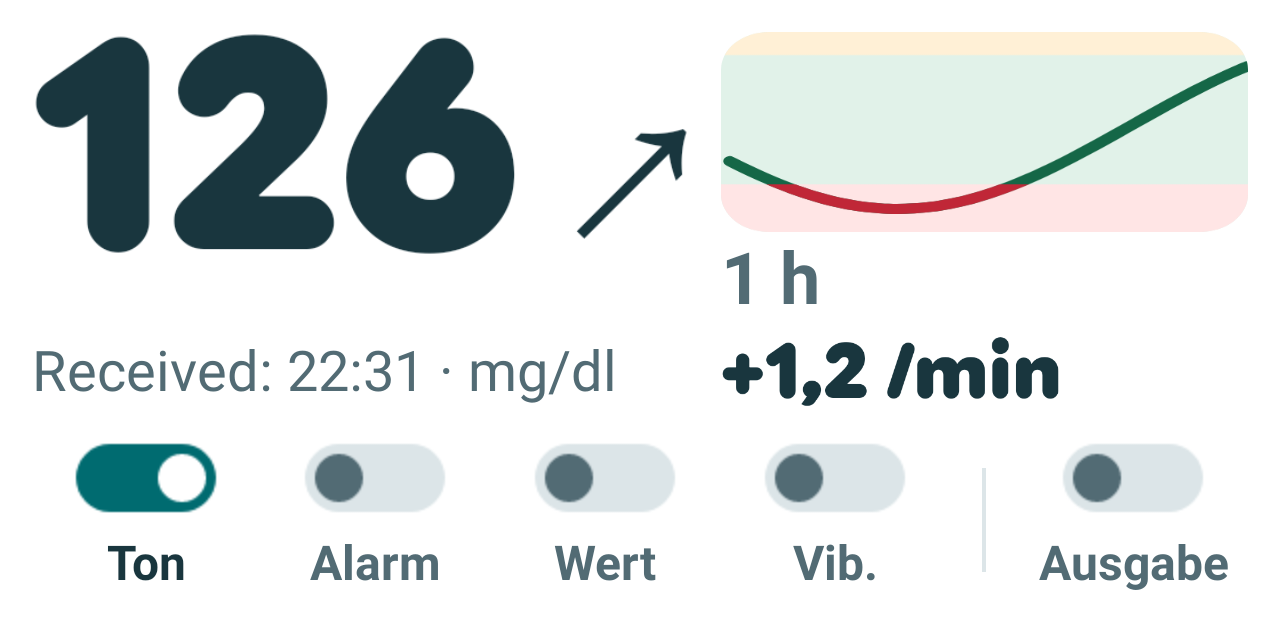
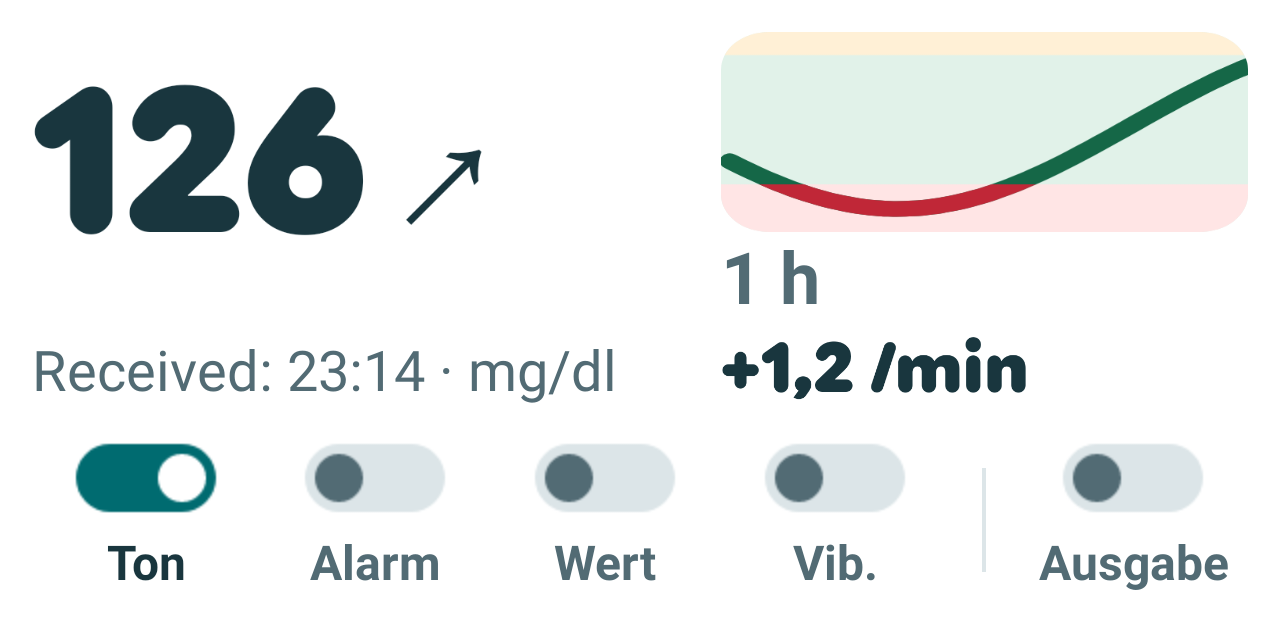
Update widget proportions and documentation for 0.20.7 beta

diff --git a/companionProbe/src/test/java/de/giesen/camaps/companion/prototype/androidcheck/HomeWidgetPlatformTest.java b/companionProbe/src/test/java/de/giesen/camaps/companion/prototype/androidcheck/HomeWidgetPlatformTest.java
@@ -202,12 +202,12 @@ public class HomeWidgetPlatformTest {
         Bitmap digits=Bitmap.createBitmap(number.getWidth(),number.getHeight(),Bitmap.Config.ARGB_8888);number.draw(new Canvas(digits));
         Rect ink=ink(digits);int firstInk=ink.left;
         // Measure visible glyphs rather than the former TextView's em size.
-        assertTrue("The visible reading must stay large",ink.height()>=48);
+        assertTrue("The visible reading must remain readable without dominating the widget",ink.height()>=30&&ink.height()<=46);
         assertTrue("The reading must begin at the leading edge instead of leaving a blank block",firstInk<18);
-        assertTrue("The visible reading and arrow must use the available width",ink.width()>number.getWidth()*.85f);
+        assertTrue("Leave breathing room after the reading and arrow",ink.width()>number.getWidth()*.5f&&ink.width()<number.getWidth()*.83f);
         View wide=layout(HomeWidget.view(c,widget,560,180,m),560,180);
         ImageView larger=wide.findViewById(R.id.widget_reading);Bitmap expanded=Bitmap.createBitmap(larger.getWidth(),larger.getHeight(),Bitmap.Config.ARGB_8888);larger.draw(new Canvas(expanded));
-        assertTrue("A wider host must give the main value more room",ink(expanded).height()>ink.height());
+        assertTrue("A wider host may enlarge the value only up to its height cap",ink(expanded).height()>=ink.height()&&ink(expanded).height()<=46);
         assertEquals(18,((TextView)normal.findViewById(R.id.widget_period)).getTextSize(),.1);
         save("widget-balanced-wide.png",HomeWidget.view(c,widget,560,180,m),560,180);
         c.getSharedPreferences(HomeWidget.PREFS,0).edit().putBoolean("controls_"+widget,false).commit();
@@ -223,7 +223,8 @@ public class HomeWidgetPlatformTest {
                 View host=layout(copy,width,160);float density=c.getResources().getDisplayMetrics().density;
                 ImageView number=host.findViewById(R.id.widget_reading);TextView period=host.findViewById(R.id.widget_period);
                 Bitmap visible=Bitmap.createBitmap(number.getWidth(),number.getHeight(),Bitmap.Config.ARGB_8888);number.draw(new Canvas(visible));
-                assertTrue("Dense displays must not shrink the visible value",ink(visible).height()/density>=48);
+                float visibleHeight=ink(visible).height()/density;
+                assertTrue("Dense displays retain a bounded readable size",visibleHeight>=30&&visibleHeight<=46);
                 Bitmap before=bitmap(layout(rv,width,160),R.id.widget_reading),after=bitmap(host,R.id.widget_reading);
                 assertTrue("The exact round font and arrow must survive RemoteViews parceling",before.sameAs(after));
                 assertEquals(18,period.getTextSize()/density,.1);
@@ -256,8 +257,8 @@ public class HomeWidgetPlatformTest {
             Bitmap pixels=Bitmap.createBitmap(chart.getWidth(),chart.getHeight(),Bitmap.Config.ARGB_8888);chart.draw(new Canvas(pixels));
             int thickness=0;for(int y=0;y<pixels.getHeight();y++)if(pixels.getPixel(pixels.getWidth()/2,y)==0xffd4f6e7)thickness++;
             float density=c.getResources().getDisplayMetrics().density;
-            assertTrue("A line must remain visible after fitting",thickness>=density);
-            assertTrue("A height mismatch must not turn the curve into a filled band",thickness<=4*density);
+            float relativeStroke=thickness/(float)chart.getHeight();
+            assertTrue("Use the middle weight between the previous two curves",relativeStroke>=.055f&&relativeStroke<=.095f);
             Bitmap source=((android.graphics.drawable.BitmapDrawable)chart.getDrawable()).getBitmap();
             assertEquals("Use enough source pixels for a dense screen",256,source.getHeight());
             save("widget-balanced-height-hint-"+hint+".png",rv,400,160);
@@ -279,7 +280,7 @@ public class HomeWidgetPlatformTest {
             String arrow=HomeWidget.arrow(trend);Bitmap with=HomeWidgetRenderer.numerals(c,value,arrow,Color.WHITE,false);
             Bitmap without=HomeWidgetRenderer.numerals(c,value,"",Color.WHITE,false);Rect r=ink(with);
             assertTrue(r.width()>0&&r.height()>0);assertTrue(r.left>0&&r.top>0&&r.right<with.getWidth()&&r.bottom<with.getHeight());
-            if(!arrow.isEmpty())assertTrue("Known arrow must add visible glyphs",with.getWidth()>without.getWidth());
+            if(!arrow.isEmpty())assertTrue("Known arrow must add visible glyphs",ink(with).width()>ink(without).width());
             assertTrue(with.getWidth()<=960&&with.getHeight()<=384);
         }
         for(boolean small:new boolean[]{true,false}){
@@ -294,6 +295,24 @@ public class HomeWidgetPlatformTest {
         String expected="Received: "+new java.text.SimpleDateFormat("HH:mm",Locale.getDefault()).format(new Date(s.received))+" · mg/dl";
         assertEquals(expected,stamp.getText().toString());assertEquals(AppAppearance.colors(c).error,stamp.getCurrentTextColor());
         assertTrue("Screen readers retain the full original timestamp",HomeWidget.description(m).contains(new java.text.SimpleDateFormat("dd.MM. HH:mm",Locale.getDefault()).format(new Date(s.received))));
+    }
+    @Test @Config(sdk=34,qualifiers="de-w411dp-h891dp-xxxhdpi") public void shorterValuesDoNotGrowAndTallHostsRespectTheHeightCap()throws Exception {
+        float density=c.getResources().getDisplayMetrics().density;WatchSnapshot base=demo(false);
+        for(int width:new int[]{320,400,560})for(int height:new int[]{160,260})for(WatchSnapshot.Trend trend:new WatchSnapshot.Trend[]{WatchSnapshot.Trend.FLAT,WatchSnapshot.Trend.DOWN_RIGHT}){
+            float previous=-1;
+            for(int value:new int[]{96,196}){
+                WatchSnapshot sample=new WatchSnapshot(base.generated,base.received,value,trend,false,true,base.rate,base.low,base.high,base.points);
+                RemoteViews rv=HomeWidget.view(c,widget,width,height,new HomeWidget.Model(sample,true,false,false,false,true,output()));
+                ImageView number=layout(rv,width,height).findViewById(R.id.widget_reading);
+                Bitmap visible=Bitmap.createBitmap(number.getWidth(),number.getHeight(),Bitmap.Config.ARGB_8888);number.draw(new Canvas(visible));
+                float glyphHeight=ink(visible).height()/density;
+                assertTrue("The launcher cannot allocate an oversized reading image",number.getHeight()/density<=56);
+                assertTrue("Both digit counts stay readable and below the visual cap",glyphHeight>=30&&glyphHeight<=46);
+                if(previous>=0)assertEquals("Two and three digits must have comparable height",previous,glyphHeight,2);
+                previous=glyphHeight;
+                if(width==400&&height==160&&trend==WatchSnapshot.Trend.DOWN_RIGHT)save("widget-balanced-"+(value==96?"two-digits":"three-digits")+".png",rv,width,height);
+            }
+        }
     }
     private Bitmap bitmap(View root,int id){return ((android.graphics.drawable.BitmapDrawable)((ImageView)root.findViewById(id)).getDrawable()).getBitmap();}
     private Rect ink(Bitmap b){Rect r=new Rect(b.getWidth(),b.getHeight(),0,0);for(int y=0;y<b.getHeight();y++)for(int x=0;x<b.getWidth();x++)if(Color.alpha(b.getPixel(x,y))>100){r.left=Math.min(r.left,x);r.top=Math.min(r.top,y);r.right=Math.max(r.right,x+1);r.bottom=Math.max(r.bottom,y+1);}return r;}

diff --git a/companionProbe/src/main/java/de/giesen/camaps/companion/prototype/HomeWidgetRenderer.java b/companionProbe/src/main/java/de/giesen/camaps/companion/prototype/HomeWidgetRenderer.java
@@ -8,6 +8,8 @@ import java.util.*;
 final class HomeWidgetRenderer {
     private final Paint p=new Paint(Paint.ANTI_ALIAS_FLAG);
     private static Typeface rounded;
+    // Midpoint between the last two device-tested weights.
+    private static final float CURVE_STROKE=(3.25f+64f*15f/141f)/2;
     /** Render only the numerals locally: launcher RemoteViews cannot load app fonts reliably.
      * Tight bounds and FIT_START preserve the typeface, adjacency and leading alignment
      * across process boundaries without a bitmap sized from unreliable host heights.
@@ -24,8 +26,20 @@ final class HomeWidgetRenderer {
         // ink height to the entire view would turn it into a thick bar.
         bounds.top=Math.min(bounds.top,zero.top);bounds.bottom=Math.max(bounds.bottom,zero.bottom);
         if(!arrow.isEmpty()){trend.getTextBounds(arrow,0,arrow.length(),b);bounds.union(arrowX+b.left,b.top,arrowX+b.right,b.bottom);}
-        float scale=Math.min(1,Math.min(956f/Math.max(1,bounds.width()),380f/Math.max(1,bounds.height())));
-        Bitmap bitmap=Bitmap.createBitmap(Math.max(1,(int)Math.ceil(bounds.width()*scale)+4),Math.max(1,(int)Math.ceil(bounds.height()*scale)+4),Bitmap.Config.ARGB_8888);
+        if(!small){
+            // A short value must not become larger just because it has fewer
+            // digits or a narrower arrow. Reserve one common three-digit box.
+            float referenceX=digits.measureText("888")+digits.measureText("\u2009"),referenceRight=referenceX;
+            for(String direction:new String[]{"⇈","↑","↗","→","↘","↓","⇊"}){
+                trend.getTextBounds(direction,0,direction.length(),b);referenceRight=Math.max(referenceRight,referenceX+b.right);
+            }
+            bounds.right=Math.max(bounds.right,referenceRight);
+        }
+        // Reserve trailing space rather than letting FIT_START enlarge the ink
+        // to fill the entire reading region. Leading alignment stays unchanged.
+        float occupancy=small?.9f:.8f;
+        float scale=Math.min(1,Math.min(956f*occupancy/Math.max(1,bounds.width()),380f*occupancy/Math.max(1,bounds.height())));
+        Bitmap bitmap=Bitmap.createBitmap(Math.max(1,(int)Math.ceil(bounds.width()*scale/occupancy)+4),Math.max(1,(int)Math.ceil(bounds.height()*scale/occupancy)+4),Bitmap.Config.ARGB_8888);
         bitmap.setDensity(Bitmap.DENSITY_NONE);bitmap.setHasMipMap(true);
         Canvas canvas=new Canvas(bitmap);canvas.translate(2,2);canvas.scale(scale,scale);canvas.translate(-bounds.left,-bounds.top);
         canvas.drawText(value,0,0,digits);if(!arrow.isEmpty())canvas.drawText(arrow,arrowX,0,trend);
@@ -65,10 +79,10 @@ final class HomeWidgetRenderer {
     private void segment(Canvas c,List<DiagnosticSeries.Sample> points,WatchSnapshot s,long from,long span,double lo,double hi,float left,float right,float top,float bottom,boolean dark,boolean fresh){
         if(points.isEmpty())return;Path path=new Path();DiagnosticSeries.Sample first=points.get(0);path.moveTo(x(first.time,from,span,left,right),y(first.value,lo,hi,top,bottom));
         for(double[] a:ChartCurve.controls(points))path.cubicTo(x(a[0],from,span,left,right),y(a[1],lo,hi,top,bottom),x(a[2],from,span,left,right),y(a[3],lo,hi,top,bottom),x(a[4],from,span,left,right),y(a[5],lo,hi,top,bottom));
-        p.setStyle(Paint.Style.STROKE);p.setStrokeWidth(3.25f);p.setStrokeCap(Paint.Cap.ROUND);p.setStrokeJoin(Paint.Join.ROUND);p.setColor(fresh?(dark?0xffd4f6e7:0xff156747):0xff8b9993);c.drawPath(path,p);
+        p.setStyle(Paint.Style.STROKE);p.setStrokeWidth(CURVE_STROKE);p.setStrokeCap(Paint.Cap.ROUND);p.setStrokeJoin(Paint.Join.ROUND);p.setColor(fresh?(dark?0xffd4f6e7:0xff156747):0xff8b9993);c.drawPath(path,p);
         if(fresh&&s.high!=null){c.save();c.clipRect(left,top,right,y(s.high,lo,hi,top,bottom));p.setColor(dark?0xffffd28c:0xff936000);c.drawPath(path,p);c.restore();}
         if(fresh&&s.low!=null){c.save();c.clipRect(left,y(s.low,lo,hi,top,bottom),right,bottom);p.setColor(dark?0xffff5c5c:0xffc02737);c.drawPath(path,p);c.restore();}
-        p.setStyle(Paint.Style.FILL);if(points.size()==1){p.setColor(!fresh?0xff8b9993:s.low!=null&&first.value<s.low?(dark?0xffff5c5c:0xffc02737):s.high!=null&&first.value>s.high?(dark?0xffffd28c:0xff936000):(dark?0xffd4f6e7:0xff156747));c.drawCircle(x(first.time,from,span,left,right),y(first.value,lo,hi,top,bottom),1.75f,p);}
+        p.setStyle(Paint.Style.FILL);if(points.size()==1){p.setColor(!fresh?0xff8b9993:s.low!=null&&first.value<s.low?(dark?0xffff5c5c:0xffc02737):s.high!=null&&first.value>s.high?(dark?0xffffd28c:0xff936000):(dark?0xffd4f6e7:0xff156747));c.drawCircle(x(first.time,from,span,left,right),y(first.value,lo,hi,top,bottom),CURVE_STROKE/2,p);}
     }
     private float x(double time,long from,long span,float left,float right){return (float)(left+(right-left)*(time-from)/span);}
     private float y(double value,double lo,double hi,float top,float bottom){return (float)(bottom-(bottom-top)*(value-lo)/(hi-lo));}

diff --git a/docs/PHONE_REFERENCE.de.md b/docs/PHONE_REFERENCE.de.md
@@ -17,7 +17,7 @@ Ab Telefonversion 0.20.0 enthält GVA ein größenanpassbares Widget. Ab 0.20.2 
 
 Die Kurve zeigt je nach verfügbarer Breite 30 Minuten, eine oder zwei Stunden. „30 min“, „1 h“ oder „2 h“ steht direkt darunter. GVA reserviert zuerst Platz für Wert und Pfeil und verkürzt bei weniger Breite den Kurvenzeitraum. Die Beschriftung bezeichnet das sichtbare Zeitfenster; fehlende Daten bleiben darin offen. Die Diagnosekurve im Dashboard zeigt weiterhin sechs Stunden.
 
-Halte eine freie Stelle auf dem Startbildschirm gedrückt und wähle Widgets → Glucose Voice Alarm → GVA · Glukose. Ab 0.20.3 beträgt die Mindesthöhe 120 dp. Ab 0.20.5 werden Wert/Pfeil und Delta als scharf aufgelöste, begrenzte Grafiken gezeichnet. So bleibt die mitgelieferte runde Schrift auch im eingeschränkten Launcher-Kontext erhalten. Zeit und Zeitraumangabe bleiben native Textelemente. Für Hauptwert und Delta enthält das Widget eine kräftige, runde Variante von Google Sans Flex unter SIL OFL 1.1. Sie wird mitgeliefert und benötigt keine bestimmte auf dem Telefon installierte Schrift. Die Uhr verwendet weiterhin Roboto Flex. Der Wert steht linksbündig, der Pfeil daneben. Die Kurve wird etwas kräftiger gezeichnet; ihre Zeichenhöhe bleibt beim Größenwechsel fest, damit eine ungenaue Höhenangabe des Launchers die Linie nicht stark verbreitert. Die Zeitraumangabe ist größer und die Kurve nutzt die verfügbare Höhe. Eine feste 4×2-Rastervorgabe entfällt. Die Rastergröße und benötigten Zellen bestimmt der Launcher anhand der Mindestmaße. Ein vorhandenes Widget kannst Du dort selbst flacher ziehen.
+Halte eine freie Stelle auf dem Startbildschirm gedrückt und wähle Widgets → Glucose Voice Alarm → GVA · Glukose. Ab 0.20.3 beträgt die Mindesthöhe 120 dp. Ab 0.20.5 werden Wert/Pfeil und Delta als scharf aufgelöste, begrenzte Grafiken gezeichnet. So bleibt die mitgelieferte runde Schrift auch im eingeschränkten Launcher-Kontext erhalten. Zeit und Zeitraumangabe bleiben native Textelemente. Für Hauptwert und Delta enthält das Widget eine kräftige, runde Variante von Google Sans Flex unter SIL OFL 1.1. Sie wird mitgeliefert und benötigt keine bestimmte auf dem Telefon installierte Schrift. Die Uhr verwendet weiterhin Roboto Flex. Der Wert steht linksbündig, der Pfeil direkt daneben. Eine gemeinsame Größenbasis und eine begrenzte Bildhöhe halten zwei- und dreistellige Werte in vergleichbarer Schriftgröße. Die Kurve hat eine mittlere Linienstärke und eine feste Zeichenhöhe; ungenaue Höhenangaben des Launchers verändern dadurch nicht ihre relative Stärke. Die Zeitraumangabe ist größer und die Kurve nutzt die verfügbare Höhe. Eine feste 4×2-Rastervorgabe entfällt. Die Rastergröße und benötigten Zellen bestimmt der Launcher anhand der Mindestmaße. Ein vorhandenes Widget kannst Du dort selbst flacher ziehen.
 
 Die Schalterzeile bleibt auch bei niedriger Höhe sichtbar: Ton, Alarm-Sprache („Alarm“), Wertansagen („Wert“), Vibration und der Hauptschalter „Ausgabe“. Die Toggles sind größer; bei ausreichender Breite trennt etwas Abstand mit einer dezenten Linie die Ausgabe von den vier Kanälen. Die Schalterstellung zeigt an/aus; bei laufender globaler Pause heißt der Hauptschalter „Pause“. Antippen der übrigen Fläche öffnet das Dashboard. Profile und weitere Einstellungen sind in der App erreichbar. Über die Widget-Bearbeitung des Launchers lässt sich die Schalterzeile weiterhin pro Widget ausblenden, sofern der Launcher diese Funktion anbietet.
 
@@ -56,7 +56,7 @@ Wenn CamAPS bereits die Glukosedaten empfängt und die Therapie steuert, kann si
 
 ## Umfang und Grenzen
 
-Vorbereitet ist die Telefonversion 0.20.5 Beta. Entwicklung und Telefonprüfungen konzentrierten sich auf Pixel 7 Pro mit Android 17 und CamAPS FX 1.4(194).111. Andere Geräte, Android-Varianten und CamAPS-Versionen müssen gesondert geprüft werden. Die App verarbeitet unterstützte CamAPS-Benachrichtigungen in **mg/dl oder mmol/l**. Andere CGM-Quellen, direkte Sensoranbindung und Pumpensteuerung sind nicht enthalten.
+Vorbereitet ist die Telefonversion 0.20.7 Beta. Entwicklung und Telefonprüfungen konzentrierten sich auf Pixel 7 Pro mit Android 17 und CamAPS FX 1.4(194).111. Andere Geräte, Android-Varianten und CamAPS-Versionen müssen gesondert geprüft werden. Die App verarbeitet unterstützte CamAPS-Benachrichtigungen in **mg/dl oder mmol/l**. Andere CGM-Quellen, direkte Sensoranbindung und Pumpensteuerung sind nicht enthalten.
 
 Optional sind [GVA Watch und das Zifferblatt GVA Dots](../companionWear/README.de.md) teilweise auf der Galaxy Watch5 Pro mit Wear OS 6 / One UI 8 Watch erprobt. Sie zeigen Werte und einen kurzen Verlauf; angenommene Telefonalarme lassen sich zusätzlich weiterleiten. Die Telefonübertragung ist zunächst aus. Aktualisierung der Komplikationen, Alarmzustellung und Akkuverbrauch benötigen weitere Geräteprüfungen.
 
@@ -66,7 +66,7 @@ Die angezeigte Zeit ist Empfangs-/Verarbeitungszeit, kein bestätigter Sensor-Me
 
 ## Anzeige auf der Uhr
 
-GVA Watch 0.19.0 Beta und das codefreie Zifferblatt GVA Dots 0.1.5 Beta passen zur vorbereiteten Telefonversion 0.20.5 Beta. Die runde Anzeige verwendet Roboto Flex, eine Kurve über eine oder zwei Stunden und eine reduzierte gedimmte Ansicht. Menüs nutzen die offiziellen Wear-Material-3-Komponenten. Die Uhren-App bietet zusätzlich eine Kachel im selben Aufbau ohne Uhrzeit-Punkte. Neben Sammelfeld und Alter lassen sich Wert, CamAPS-Trend, Delta pro Minute und Kurve einzeln in passenden fremden Zifferblättern auswählen. Die Uhr zeigt Daten und kann angenommene Telefonalarme mit Vibration weitergeben. Eine eigene Glukosealarmberechnung ist nicht enthalten. [Einrichtung und Grenzen](../companionWear/README.de.md). Die Alltagserprobung läuft; neue Einzelkomplikationen und Kachel müssen noch am Gerät geprüft werden.
+GVA Watch 0.19.0 Beta und das codefreie Zifferblatt GVA Dots 0.1.5 Beta passen zur vorbereiteten Telefonversion 0.20.7 Beta. Die runde Anzeige verwendet Roboto Flex, eine Kurve über eine oder zwei Stunden und eine reduzierte gedimmte Ansicht. Menüs nutzen die offiziellen Wear-Material-3-Komponenten. Die Uhren-App bietet zusätzlich eine Kachel im selben Aufbau ohne Uhrzeit-Punkte. Neben Sammelfeld und Alter lassen sich Wert, CamAPS-Trend, Delta pro Minute und Kurve einzeln in passenden fremden Zifferblättern auswählen. Die Uhr zeigt Daten und kann angenommene Telefonalarme mit Vibration weitergeben. Eine eigene Glukosealarmberechnung ist nicht enthalten. [Einrichtung und Grenzen](../companionWear/README.de.md). Die Alltagserprobung läuft; neue Einzelkomplikationen und Kachel müssen noch am Gerät geprüft werden.
 
 Die optionale Weiterleitung eigener Alarme und Datenlückenwarnungen an GVA Watch ist ab 0.18.0 getrennt von den Anzeigedaten einschaltbar. Auf der Uhr erscheinen eigene Benachrichtigungen mit Vibration. Beide Apps benötigen eine Freigabe; unter Darstellung → Uhr gibt es einen ausdrücklich bezeichneten Test ohne Messwerte. Die Weiterleitung folgt angenommenen Telefonalarm-Ausgaben und arbeitet ohne Offline-Nachholung. Normale Werte erzeugen keine Uhrenbenachrichtigung. [Einrichtung und Grenzen](../companionWear/README.de.md#einrichtung-und-alarme).
 

diff --git a/docs/PHONE_REFERENCE.md b/docs/PHONE_REFERENCE.md
@@ -17,7 +17,7 @@ Phone version 0.20.0 introduced a resizable GVA widget. From 0.20.2, the large r
 
 Depending on the available width, the chart shows 30 minutes, one or two hours, labeled directly below as “30 min”, “1 h” or “2 h”. GVA reserves space for the reading and arrow first and shortens the chart window as width decreases. The label describes the visible time window; missing data stays empty within it. The dashboard diagnostic chart still covers six hours.
 
-Long-press an empty area of the home screen and select Widgets → Glucose Voice Alarm → GVA · Glucose. From 0.20.3, the minimum height is 120 dp. From 0.20.5, the reading/arrow and delta are drawn as sharp, bounded images so the bundled round font survives the launcher’s restricted context. Time and history-window labels remain native text views. The widget bundles a heavy, rounded instance of Google Sans Flex for the reading and delta under SIL OFL 1.1, without relying on a particular font being installed on the phone. The watch continues to use Roboto Flex. The reading is left-aligned, with the arrow beside it. The chart has a slightly thicker line and uses a fixed drawing height so that an inaccurate launcher height hint cannot greatly widen the line. The history-window label is larger, and the chart uses the available height. There is no fixed 4×2 grid request. The launcher determines the grid size and required cells from the minimum dimensions. You can make an existing widget shorter there.
+Long-press an empty area of the home screen and select Widgets → Glucose Voice Alarm → GVA · Glucose. From 0.20.3, the minimum height is 120 dp. From 0.20.5, the reading/arrow and delta are drawn as sharp, bounded images so the bundled round font survives the launcher’s restricted context. Time and history-window labels remain native text views. The widget bundles a heavy, rounded instance of Google Sans Flex for the reading and delta under SIL OFL 1.1, without relying on a particular font being installed on the phone. The watch continues to use Roboto Flex. The reading is left-aligned, with the arrow beside it. A shared size reference and a capped image height keep two- and three-digit readings at comparable sizes. The chart uses a medium-weight line and a fixed drawing height, so inaccurate launcher height hints do not change its relative weight. The history-window label is larger, and the chart uses the available height. There is no fixed 4×2 grid request. The launcher determines the grid size and required cells from the minimum dimensions. You can make an existing widget shorter there.
 
 The toggle row remains visible at low heights: sound, alarm speech (“Alarm”), reading speech (“Reading”), vibration and the output master switch. Toggles are larger, with extra space and a subtle divider separating output from the four channels when width permits. Switch positions show on/off; during a running global pause, the master label reads “Paused”. Tapping elsewhere opens the dashboard. Profiles and other settings remain available in the app. Launchers that support widget editing can still hide the toggle row for each widget.
 
@@ -56,7 +56,7 @@ With CamAPS already collecting glucose data and controlling therapy, a companion
 
 ## Scope and limitations
 
-The prepared phone version is 0.20.5 Beta. Development and phone device checks have focused on a Pixel 7 Pro with Android 17 and CamAPS FX 1.4(194).111. Other devices, Android variants and CamAPS versions need separate verification. The app targets supported CamAPS notifications in **mg/dl or mmol/l**. It does not offer arbitrary CGM inputs, direct sensor communication or pump control.
+The prepared phone version is 0.20.7 Beta. Development and phone device checks have focused on a Pixel 7 Pro with Android 17 and CamAPS FX 1.4(194).111. Other devices, Android variants and CamAPS versions need separate verification. The app targets supported CamAPS notifications in **mg/dl or mmol/l**. It does not offer arbitrary CGM inputs, direct sensor communication or pump control.
 
 Optional [GVA Watch and the GVA Dots face](../companionWear/README.en.md) have been tested in part on a Galaxy Watch5 Pro running Wear OS 6 / One UI 8 Watch. They show readings and a short chart, with optional forwarding of accepted phone alerts. Phone-to-watch transfer starts off. Complication timing, alarm delivery and battery use need further device testing.
 
@@ -66,7 +66,7 @@ The time shown is receipt/processing time, not a verified sensor measurement tim
 
 ## Watch display
 
-GVA Watch 0.19.0 Beta and the code-free GVA Dots 0.1.5 Beta face work with the prepared phone version 0.20.5 Beta. The round display uses Roboto Flex, a one- or two-hour curve and a reduced ambient view. Menus use official Wear Material 3 components. The watch app also supplies a tile with the same data layout, without time dots. Alongside the composite display and age source, separate reading, CamAPS trend, delta per minute and chart sources can be selected in compatible third-party faces. The watch displays data and can relay accepted phone alarms with vibration. It does not calculate glucose alarms independently. See [watch setup and limits](../companionWear/README.en.md). Everyday device testing continues; the new standalone complications and tile still need device acceptance.
+GVA Watch 0.19.0 Beta and the code-free GVA Dots 0.1.5 Beta face work with the prepared phone version 0.20.7 Beta. The round display uses Roboto Flex, a one- or two-hour curve and a reduced ambient view. Menus use official Wear Material 3 components. The watch app also supplies a tile with the same data layout, without time dots. Alongside the composite display and age source, separate reading, CamAPS trend, delta per minute and chart sources can be selected in compatible third-party faces. The watch displays data and can relay accepted phone alarms with vibration. It does not calculate glucose alarms independently. See [watch setup and limits](../companionWear/README.en.md). Everyday device testing continues; the new standalone complications and tile still need device acceptance.
 
 From version 0.18.0, forwarding GVA alarms and data-gap warnings to GVA Watch can be enabled separately from display transfer. The watch creates its own notifications with vibration. Both apps require opt-in; Appearance → Watch includes a labeled test without readings. Forwarding follows accepted phone alarm outputs, without offline replay. Routine readings do not create watch notifications. [Setup and limits](../companionWear/README.en.md#watch-alerts).
 

diff --git a/docs/STATUS.md b/docs/STATUS.md
@@ -6,7 +6,7 @@
 
 | Component | Version | Source minimum / special requirement |
 |---|---|---|
-| Phone | 0.20.5 Beta | Android API 26 minimum declaration; native large metric display requires Android 17/API 37 |
+| Phone | 0.20.7 Beta | Android API 26 minimum declaration; native large metric display requires Android 17/API 37 |
 | GVA Watch, including tile and six complication sources | 0.19.0 Beta | API 30 minimum declaration; some dynamic-age behavior requires newer APIs |
 | GVA Dots | 0.1.5 Beta | Wear OS 4+, Watch Face Format v1 |
 
@@ -14,9 +14,9 @@ The phone/watch application ID and signing key must match for Google Play servic
 
 ## What has been checked
 
-The phone suite contains 650 synthetic checks; the watch suite contains 50, including four tile checks. Native renderings cover phone themes/settings, the widget, watch data views, the tile and complication graphics. The source review checks imported xDrip rule hashes, private-file exclusions, local links, dependency/font notices, package identity and independent debug signing. Tests do not establish clinical safety or reliable alarm delivery. On 28 October 2026, the exported repository was independently rebuilt with all 650 phone checks and 50 watch checks passing (700 total). All three APKs compiled using a matching ordinary debug identity, without the private developer key. Those APKs were used only for validation and are not distributed. The installed apps were not changed during this documentation/source preparation.
+The phone suite contains 651 synthetic checks; the watch suite contains 50, including four tile checks. Native renderings cover phone themes/settings, the widget, watch data views, the tile and complication graphics. The source review checks imported xDrip rule hashes, private-file exclusions, local links, dependency/font notices, package identity and independent debug signing. Tests do not establish clinical safety or reliable alarm delivery. On 28 October 2026, the exported repository was independently rebuilt with all 651 phone checks and 50 watch checks passing (701 total). All three APKs compiled using a matching ordinary debug identity, without the private developer key. Those APKs were used only for validation and are not distributed. The installed apps were not changed during this documentation/source preparation.
 
-Device work has focused on Pixel 7 Pro, Android 17, CamAPS FX 1.4(194).111, and Galaxy Watch5 Pro, Wear OS 6/One UI 8 Watch. The user observed value/trend speech and phone live-display behavior. The watch-face appearance, age field and worn ambient display were checked. Watch active-mode updates were observed approximately once per minute. Phone widget 0.20.4 was left in place after layout revisions. Version 0.20.5 changes the round-font transfer, line weight and receipt caption; its Pixel launcher appearance still needs device acceptance. These observations are not a compatibility or reliability guarantee.
+Device work has focused on Pixel 7 Pro, Android 17, CamAPS FX 1.4(194).111, and Galaxy Watch5 Pro, Wear OS 6/One UI 8 Watch. The user observed value/trend speech and phone live-display behavior. The watch-face appearance, age field and worn ambient display were checked. Watch active-mode updates were observed approximately once per minute. The user accepted the phone widget’s appearance on the Pixel launcher in version 0.20.7, including its rounded font, bounded reading size and revised curve weight. These observations are not a compatibility or reliability guarantee.
 
 ## Open before broader use
 
@@ -25,7 +25,7 @@ Device work has focused on Pixel 7 Pro, Android 17, CamAPS FX 1.4(194).111, and 
 - Natural data gaps, process restarts, disconnection/reconnection, stale display transitions and source-clock differences on real devices.
 - Perceptibility and delivery of every enabled alarm route, including watch vibration, Do Not Disturb and background restrictions. The watch has no independent alarm fallback.
 - Complication/tile cadence and battery cost in everyday active and ambient use. Synthetic timing tests cannot establish these.
-- A public-source review of the experimental description, retained upstream GPL notices and separately licensed dependencies. No certification or endorsement is claimed.
+- Continued review of the experimental description and component notices as the project changes. The current source review retains upstream GPL notices and separately licensed dependencies; no certification or endorsement is claimed.
 
 ## Privacy and distribution
 

diff --git a/docs/BUILDING.de.md b/docs/BUILDING.de.md
@@ -66,7 +66,7 @@ python tools/check_upstream_rules.py
 
 Wenn sqlite4java unter Windows mit langen WAL-Pfaden scheitert, wähle einen kurzen beschreibbaren Testordner. `probeTestTmp` legt ihn fest; der Standard ist `../t` relativ zum Repository. Gradle und Robolectric laden beim ersten Test Abhängigkeiten herunter, was viel Speicher benötigen kann. XML-/HTML-Berichte und synthetische native UI-Bilder bleiben im ignorierten `build/` des Moduls.
 
-`-PprobeFastCheck` führt nur den reinen Java-Teil aus und ersetzt nicht die vollständige Prüfung. Der Telefonstand hat 650 synthetische Prüfungen, unter anderem für Speicherformate, Profile, deutsche/englische Oberfläche und Sprache, Einheiten, Erststart-Bestätigungen und das Uhren-Anzeigeformat. Native Darstellungen decken beide Sprachen und Themen sowie große Schrift ab. Das Uhrenmodul ergänzt 50 Prüfungen, darunter die getrennten Bestätigungen und Menüaktionen, sowie synthetische Anzeige- und Menüansichten. Das belegt keine Zuverlässigkeit, Hörbarkeit oder klinische Sicherheit am echten Gerät.
+`-PprobeFastCheck` führt nur den reinen Java-Teil aus und ersetzt nicht die vollständige Prüfung. Der Telefonstand hat 651 synthetische Prüfungen, unter anderem für Speicherformate, Profile, deutsche/englische Oberfläche und Sprache, Einheiten, Erststart-Bestätigungen und das Uhren-Anzeigeformat. Native Darstellungen decken beide Sprachen und Themen sowie große Schrift ab. Das Uhrenmodul ergänzt 50 Prüfungen, darunter die getrennten Bestätigungen und Menüaktionen, sowie synthetische Anzeige- und Menüansichten. Das belegt keine Zuverlässigkeit, Hörbarkeit oder klinische Sicherheit am echten Gerät.
 
 Uhren-App und codefreies Zifferblatt haben unter `watch-build/` einen getrennten Build mit JDK 21 und Android SDK Platform 35. Gepinnt sind Gradle 8.9, AGP 8.7.2 und Kotlin 2.1.21 für Wear Compose Material 3. Die Telefonwerkzeuge oben bleiben unverändert. In einer für das Uhren-JDK und SDK eingerichteten Shell:
 

diff --git a/docs/BUILDING.md b/docs/BUILDING.md
@@ -66,7 +66,7 @@ python tools/check_upstream_rules.py
 
 Use a short writable test-temp path on Windows if sqlite4java has trouble with long WAL paths. The optional `probeTestTmp` property selects that directory. By default the test directory is `../t` relative to the repository. Gradle and Robolectric download dependencies on the first test run; this can be large. Test XML/HTML reports and native synthetic UI previews remain under the ignored module `build/` directory.
 
-`-PprobeFastCheck` runs only the pure Java subset. It is useful during development and does not replace the full suite. The phone baseline has 650 complete synthetic checks, including storage schemas, profiles, German/English UI and speech, unit conversion, first-start gates and the watch display protocol. Native synthetic renders cover both languages and themes, including large text. The watch module has 50 checks in total, including separate consent confirmations and menu actions, plus synthetic display and menu renders. These checks do not establish real-device reliability, audibility or clinical safety.
+`-PprobeFastCheck` runs only the pure Java subset. It is useful during development and does not replace the full suite. The phone baseline has 651 complete synthetic checks, including storage schemas, profiles, German/English UI and speech, unit conversion, first-start gates and the watch display protocol. Native synthetic renders cover both languages and themes, including large text. The watch module has 50 checks in total, including separate consent confirmations and menu actions, plus synthetic display and menu renders. These checks do not establish real-device reliability, audibility or clinical safety.
 
 The watch app and code-free face use the separate `watch-build/` project with JDK 21 and Android SDK Platform 35. Its pinned Gradle 8.9 / AGP 8.7.2 / Kotlin 2.1.21 build supports Wear Compose Material 3. The phone toolchain above stays unchanged. In a shell configured for the watch JDK and SDK:
 

diff --git a/companionProbe/README.de.md b/companionProbe/README.de.md
@@ -2,7 +2,7 @@
 
 [Projektübersicht](../README.de.md) · [English](README.md) · [GVA Watch](../companionWear/README.de.md) · [GVA Dots](../companionWatchFace/README.de.md)
 
-Die Telefon-App empfängt unterstützte CamAPS-Benachrichtigungen, prüft ihre eingestellten Alarme und versorgt die anderen GVA-Anzeigen. Version **0.20.5 Beta**. Sie funktioniert ohne die beiden Uhrenkomponenten.
+Die Telefon-App empfängt unterstützte CamAPS-Benachrichtigungen, prüft ihre eingestellten Alarme und versorgt die anderen GVA-Anzeigen. Version **0.20.7 Beta**. Sie funktioniert ohne die beiden Uhrenkomponenten.
 
 **Experimentelles Forschungswerkzeug; nicht für medizinische Verwendung oder Therapieentscheidungen.** Lies [SAFETY.de.md](../SAFETY.de.md). CamAPS steuert weiterhin Sensor und Pumpe.
 
@@ -18,7 +18,7 @@ Synthetische Beispiele. Dashboard und Einstellungen sind native App-Renderings; 
 
 </details>
 
-Das Widget bietet optional eine Schalterzeile für Ton, Alarm-Sprache, Wertansagen, Vibration und Ausgabe. Je nach Breite zeigt die beschriftete Kurve 30 Minuten, eine oder zwei Stunden. Wert/Pfeil und Delta verwenden die mitgelieferte runde Schrift auch im Launcher. Die Kurve ist etwas kräftiger; „Received: HH:mm“ zeigt die ursprüngliche Empfangsuhrzeit ohne Datum. Die übrige Fläche öffnet die App.
+Das Widget bietet optional eine Schalterzeile für Ton, Alarm-Sprache, Wertansagen, Vibration und Ausgabe. Je nach Breite zeigt die beschriftete Kurve 30 Minuten, eine oder zwei Stunden. Wert/Pfeil und Delta verwenden die mitgelieferte runde Schrift auch im Launcher. Zwei- und dreistellige Werte haben eine vergleichbare Schriftgröße mit fester Höhenbegrenzung. Die Kurve hat eine mittlere Linienstärke; „Received: HH:mm“ zeigt die ursprüngliche Empfangsuhrzeit ohne Datum. Die übrige Fläche öffnet die App.
 
 ## Ausgabe und Einstellungen
 

diff --git a/companionProbe/README.md b/companionProbe/README.md
@@ -2,7 +2,7 @@
 
 [Project overview](../README.md) · [Deutsch](README.de.md) · [GVA Watch](../companionWear/README.md) · [GVA Dots](../companionWatchFace/README.md)
 
-The phone app receives supported CamAPS notifications, evaluates its configured alarms and supplies all other GVA displays. Version **0.20.5 Beta**. The phone works without either watch component.
+The phone app receives supported CamAPS notifications, evaluates its configured alarms and supplies all other GVA displays. Version **0.20.7 Beta**. The phone works without either watch component.
 
 **Experimental research tool; not for medical use or treatment decisions.** Read [SAFETY.md](../SAFETY.md). CamAPS continues to control the sensor and pump.
 
@@ -18,7 +18,7 @@ Synthetic examples. Dashboard and setting images are native app renderings; the 
 
 </details>
 
-The widget has an optional single row of sound, alarm speech, reading speech, vibration and output toggles. Its chart switches between labeled 30-minute, one-hour and two-hour windows as width changes. The reading/arrow and delta use the bundled round font in the launcher. The curve has a slightly thicker line; “Received: HH:mm” shows the original receipt time without a date. The entire remaining surface opens the app.
+The widget has an optional single row of sound, alarm speech, reading speech, vibration and output toggles. Its chart switches between labeled 30-minute, one-hour and two-hour windows as width changes. The reading/arrow and delta use the bundled round font in the launcher. Two- and three-digit readings have comparable sizes and a fixed height limit. The curve uses a medium-weight line; "Received: HH:mm" shows the original receipt time without a date. The entire remaining surface opens the app.
 
 ## Output and settings
 

diff --git a/README.de.md b/README.de.md
@@ -10,7 +10,7 @@ Glucose Voice Alarm (GVA) liest Glukosewerte und Trendpfeile aus **CamAPS-Benach
 
 | Komponente | Aktueller Quellstand | Aufgabe |
 |---|---|---|
-| [Glucose Voice Alarm — Telefon](companionProbe/README.de.md) | 0.20.5 Beta | CamAPS-Empfang, konfigurierbare Alarme und Sprache, Dashboard, AOD/Sperrbildschirm und Widget |
+| [Glucose Voice Alarm — Telefon](companionProbe/README.de.md) | 0.20.7 Beta | CamAPS-Empfang, konfigurierbare Alarme und Sprache, Dashboard, AOD/Sperrbildschirm und Widget |
 | [GVA Watch](companionWear/README.de.md) | 0.19.0 Beta | Uhrenanzeige, Kachel, sechs Komplikationsquellen und optionale Telefonalarme mit Uhrenvibration |
 | [GVA Dots](companionWatchFace/README.de.md) | 0.1.5 Beta | Rundes Zifferblatt mit Uhrzeitpunkten, Wert/Pfeil, kurzem Verlauf, Alter und Delta |
 

diff --git a/README.md b/README.md
@@ -10,7 +10,7 @@ Glucose Voice Alarm (GVA) reads glucose values and trend arrows from **CamAPS no
 
 | Component | Current source version | Role |
 |---|---|---|
-| [Glucose Voice Alarm — phone](companionProbe/README.md) | 0.20.5 Beta | CamAPS receipt, configurable alarms and speech, dashboard, AOD/lock-screen notification and widget |
+| [Glucose Voice Alarm — phone](companionProbe/README.md) | 0.20.7 Beta | CamAPS receipt, configurable alarms and speech, dashboard, AOD/lock-screen notification and widget |
 | [GVA Watch](companionWear/README.md) | 0.19.0 Beta | Watch display, tile, six complication sources, and optional relayed phone alarms with vibration |
 | [GVA Dots](companionWatchFace/README.md) | 0.1.5 Beta | Round watch face with time dots, value/arrow, short history, age and delta |
 
